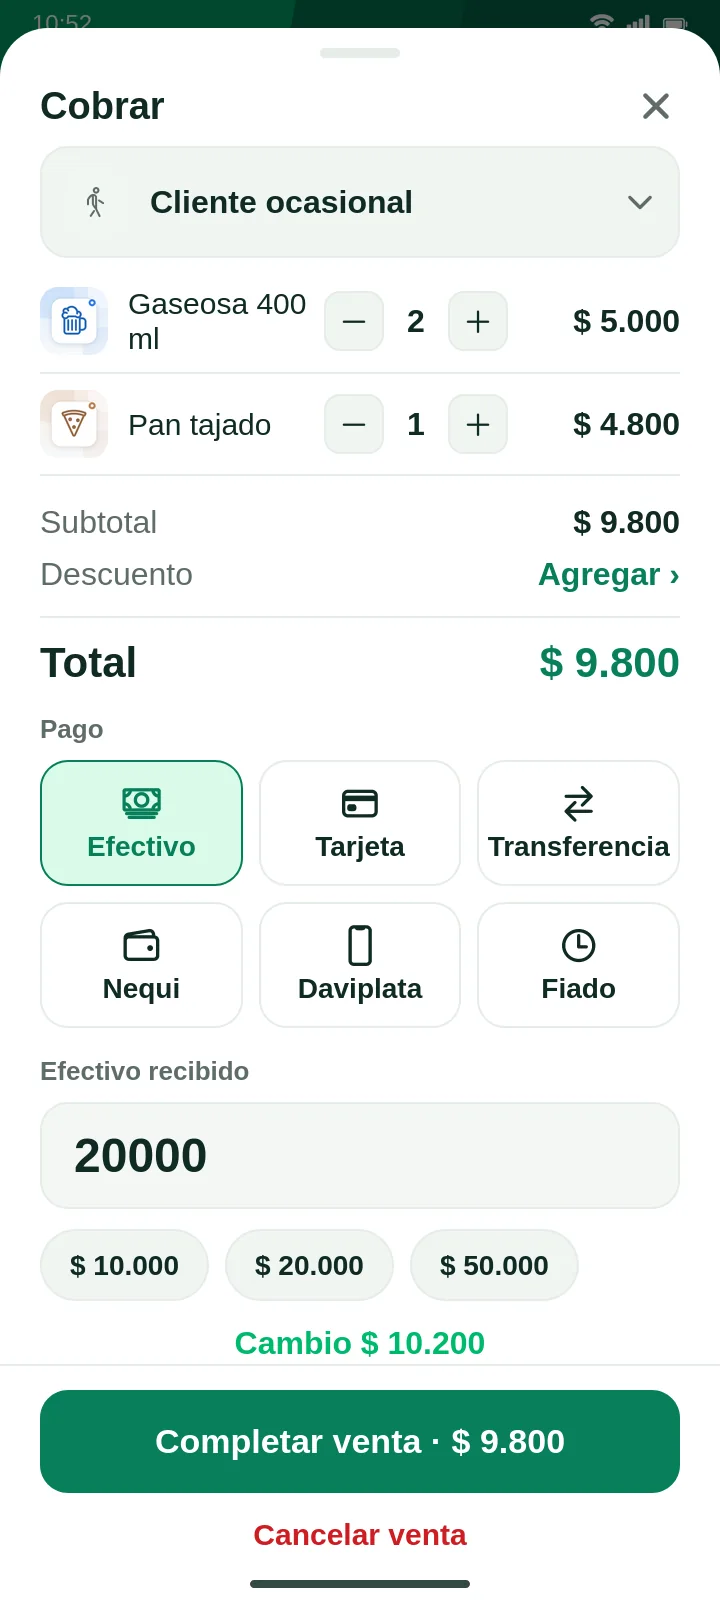
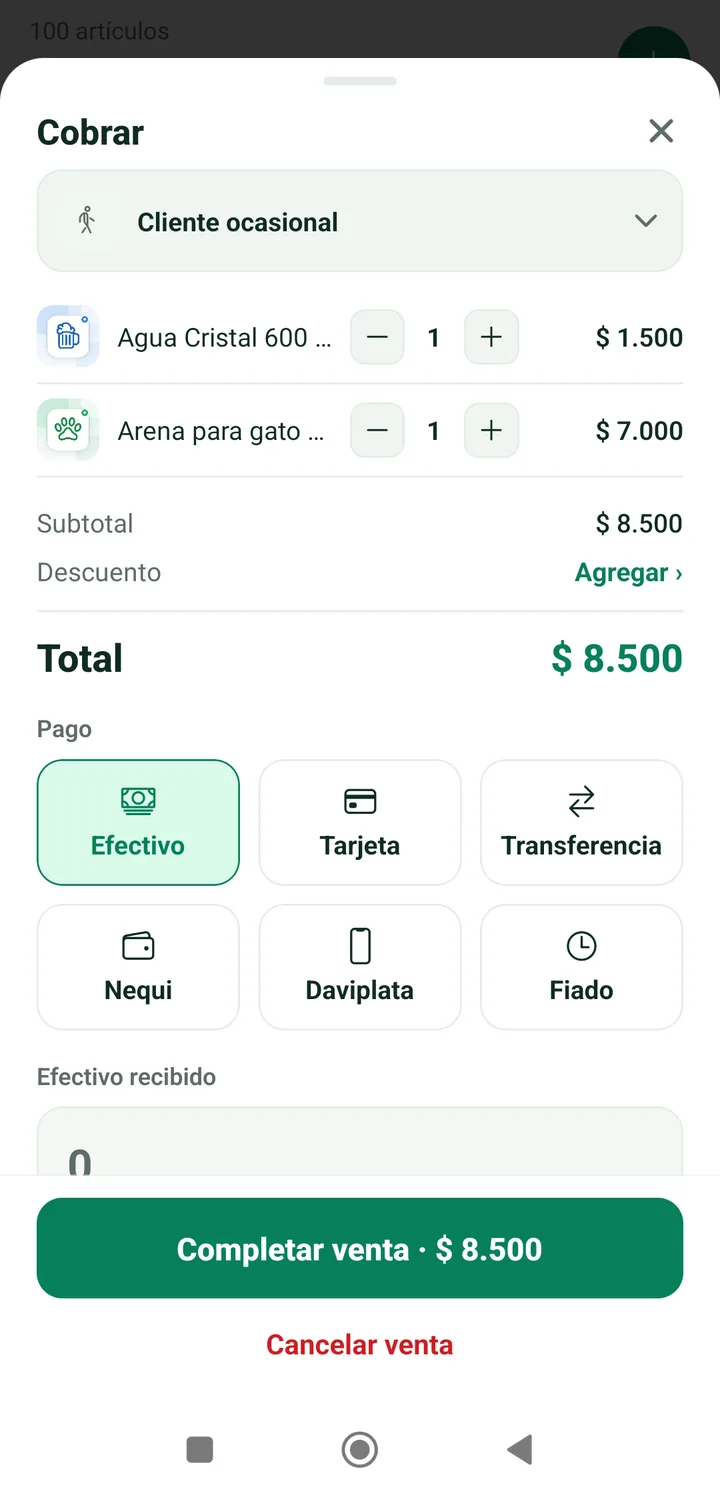
Usar capturas reales de la app en las pantallas de la landing
screen-home, screen-checkout y screen-reports eran maquetas HTML con
datos inventados. Ahora son capturas reales de la app (Android 12, COP)
de una tienda ficticia, sin la barra de estado del teléfono, convertidas
a WebP de 720 px de ancho. Las pantallas de Inicio, Cobro y Reportes
sustituyen a las maquetas.

Sin la barra de estado miden 720x1493 y no 720x1600, así que el HTML
declara 1493 de alto y el marco del teléfono usa la misma proporción
(720 / 1493). Con 9 / 20 el teléfono grande habría recortado los lados
y los pequeños habrían dejado un hueco abajo.

Un test compara el tamaño declarado con el real de cada WebP (leyendo su
cabecera), exige que el marco tenga la misma proporción y comprueba las
dimensiones de la imagen para compartir y de las del README.

diff --git a/apps/mobile/src/landingImages.test.ts b/apps/mobile/src/landingImages.test.ts
@@ -1,0 +1,66 @@
+import { test } from 'node:test';
+import assert from 'node:assert/strict';
+import { readFileSync } from 'node:fs';
+
+const root = new URL('../../../', import.meta.url);
+const read = (path: string) => readFileSync(new URL(path, root), 'utf8');
+const bytes = (path: string) => readFileSync(new URL(path, root));
+
+function webpSize(file: Buffer): { width: number; height: number } {
+  assert.equal(file.toString('ascii', 0, 4), 'RIFF');
+  assert.equal(file.toString('ascii', 8, 12), 'WEBP');
+  const kind = file.toString('ascii', 12, 16);
+  if (kind === 'VP8 ') return { width: file.readUInt16LE(26) & 0x3fff, height: file.readUInt16LE(28) & 0x3fff };
+  if (kind === 'VP8L') {
+    const bits = file.readUInt32LE(21);
+    return { width: (bits & 0x3fff) + 1, height: ((bits >> 14) & 0x3fff) + 1 };
+  }
+  return { width: 1 + file.readUIntLE(24, 3), height: 1 + file.readUIntLE(27, 3) };
+}
+
+function pngSize(file: Buffer): { width: number; height: number } {
+  assert.equal(file.toString('ascii', 1, 4), 'PNG');
+  return { width: file.readUInt32BE(16), height: file.readUInt32BE(20) };
+}
+
+const html = read('landing/index.html');
+const css = read('landing/styles.css');
+const screens = [...html.matchAll(/<img src="(assets\/screen-[a-z]+\.webp)" width="(\d+)" height="(\d+)"/g)];
+
+test('la landing declara el tamaño real de cada pantalla de la app', () => {
+  assert.ok(screens.length >= 4);
+  for (const [, path, width, height] of screens) {
+    const real = webpSize(bytes(`landing/${path}`));
+    assert.deepEqual({ width: Number(width), height: Number(height) }, real, path);
+  }
+});
+
+test('el marco del teléfono tiene la misma proporción que las capturas para no recortarlas ni dejar huecos', () => {
+  const frame = css.match(/\.phone-screen \{[^}]*aspect-ratio: (\d+) \/ (\d+);/);
+  assert.ok(frame);
+  const frameRatio = Number(frame![1]) / Number(frame![2]);
+  const names = new Set(screens.map((match) => match[1]!));
+  for (const path of names) {
+    const real = webpSize(bytes(`landing/${path}`));
+    assert.ok(Math.abs(real.width / real.height - frameRatio) < 0.001, path);
+  }
+});
+
+test('la imagen para compartir mide lo que dicen las etiquetas Open Graph', () => {
+  const declared = {
+    width: Number(html.match(/og:image:width" content="(\d+)"/)![1]),
+    height: Number(html.match(/og:image:height" content="(\d+)"/)![1]),
+  };
+  assert.deepEqual(pngSize(bytes('landing/assets/og-image.png')), declared);
+});
+
+test('las capturas del README existen, son PNG verticales de 720 px de ancho y todas se muestran', () => {
+  const readme = read('README.md');
+  const used = [...readme.matchAll(/docs\/screenshots\/([\w-]+\.png)/g)].map((match) => match[1]!);
+  assert.equal(new Set(used).size, 4);
+  for (const name of new Set(used)) {
+    const size = pngSize(bytes(`docs/screenshots/${name}`));
+    assert.equal(size.width, 720, name);
+    assert.ok(size.height > 1000, name);
+  }
+});

diff --git a/landing/index.html b/landing/index.html
@@ -185,7 +185,7 @@
         <div class="phone">
           <div class="phone-speaker" aria-hidden="true"></div>
           <div class="phone-screen">
-            <img src="assets/screen-home.webp" width="720" height="1600" alt="Pantalla de inicio de Surtivox POS con ventas del día" fetchpriority="high">
+            <img src="assets/screen-home.webp" width="720" height="1493" alt="Pantalla de inicio de Surtivox POS con ventas del día" fetchpriority="high">
           </div>
         </div>
         <div class="toast toast-offline"><span class="status-dot" aria-hidden="true"></span> Sin internet</div>
@@ -366,21 +366,21 @@
         <figure class="screen-item">
           <div class="phone phone-small">
             <div class="phone-speaker" aria-hidden="true"></div>
-            <div class="phone-screen"><img src="assets/screen-home.webp" width="720" height="1600" alt="Inicio de Surtivox POS" loading="lazy"></div>
+            <div class="phone-screen"><img src="assets/screen-home.webp" width="720" height="1493" alt="Inicio de Surtivox POS" loading="lazy"></div>
           </div>
           <figcaption>Inicio</figcaption>
         </figure>
         <figure class="screen-item screen-item-raised">
           <div class="phone phone-small">
             <div class="phone-speaker" aria-hidden="true"></div>
-            <div class="phone-screen"><img src="assets/screen-checkout.webp" width="720" height="1600" alt="Cobro en Surtivox POS" loading="lazy"></div>
+            <div class="phone-screen"><img src="assets/screen-checkout.webp" width="720" height="1493" alt="Cobro en Surtivox POS" loading="lazy"></div>
           </div>
           <figcaption>Cobro</figcaption>
         </figure>
         <figure class="screen-item">
           <div class="phone phone-small">
             <div class="phone-speaker" aria-hidden="true"></div>
-            <div class="phone-screen"><img src="assets/screen-reports.webp" width="720" height="1600" alt="Reportes de Surtivox POS" loading="lazy"></div>
+            <div class="phone-screen"><img src="assets/screen-reports.webp" width="720" height="1493" alt="Reportes de Surtivox POS" loading="lazy"></div>
           </div>
           <figcaption>Reportes</figcaption>
         </figure>

diff --git a/landing/styles.css b/landing/styles.css
@@ -437,7 +437,7 @@ h1 em {
 .phone-screen {
   position: relative;
   overflow: hidden;
-  aspect-ratio: 9 / 20;
+  aspect-ratio: 720 / 1493;
   border-radius: 32px;
   background: var(--panel);
 }
